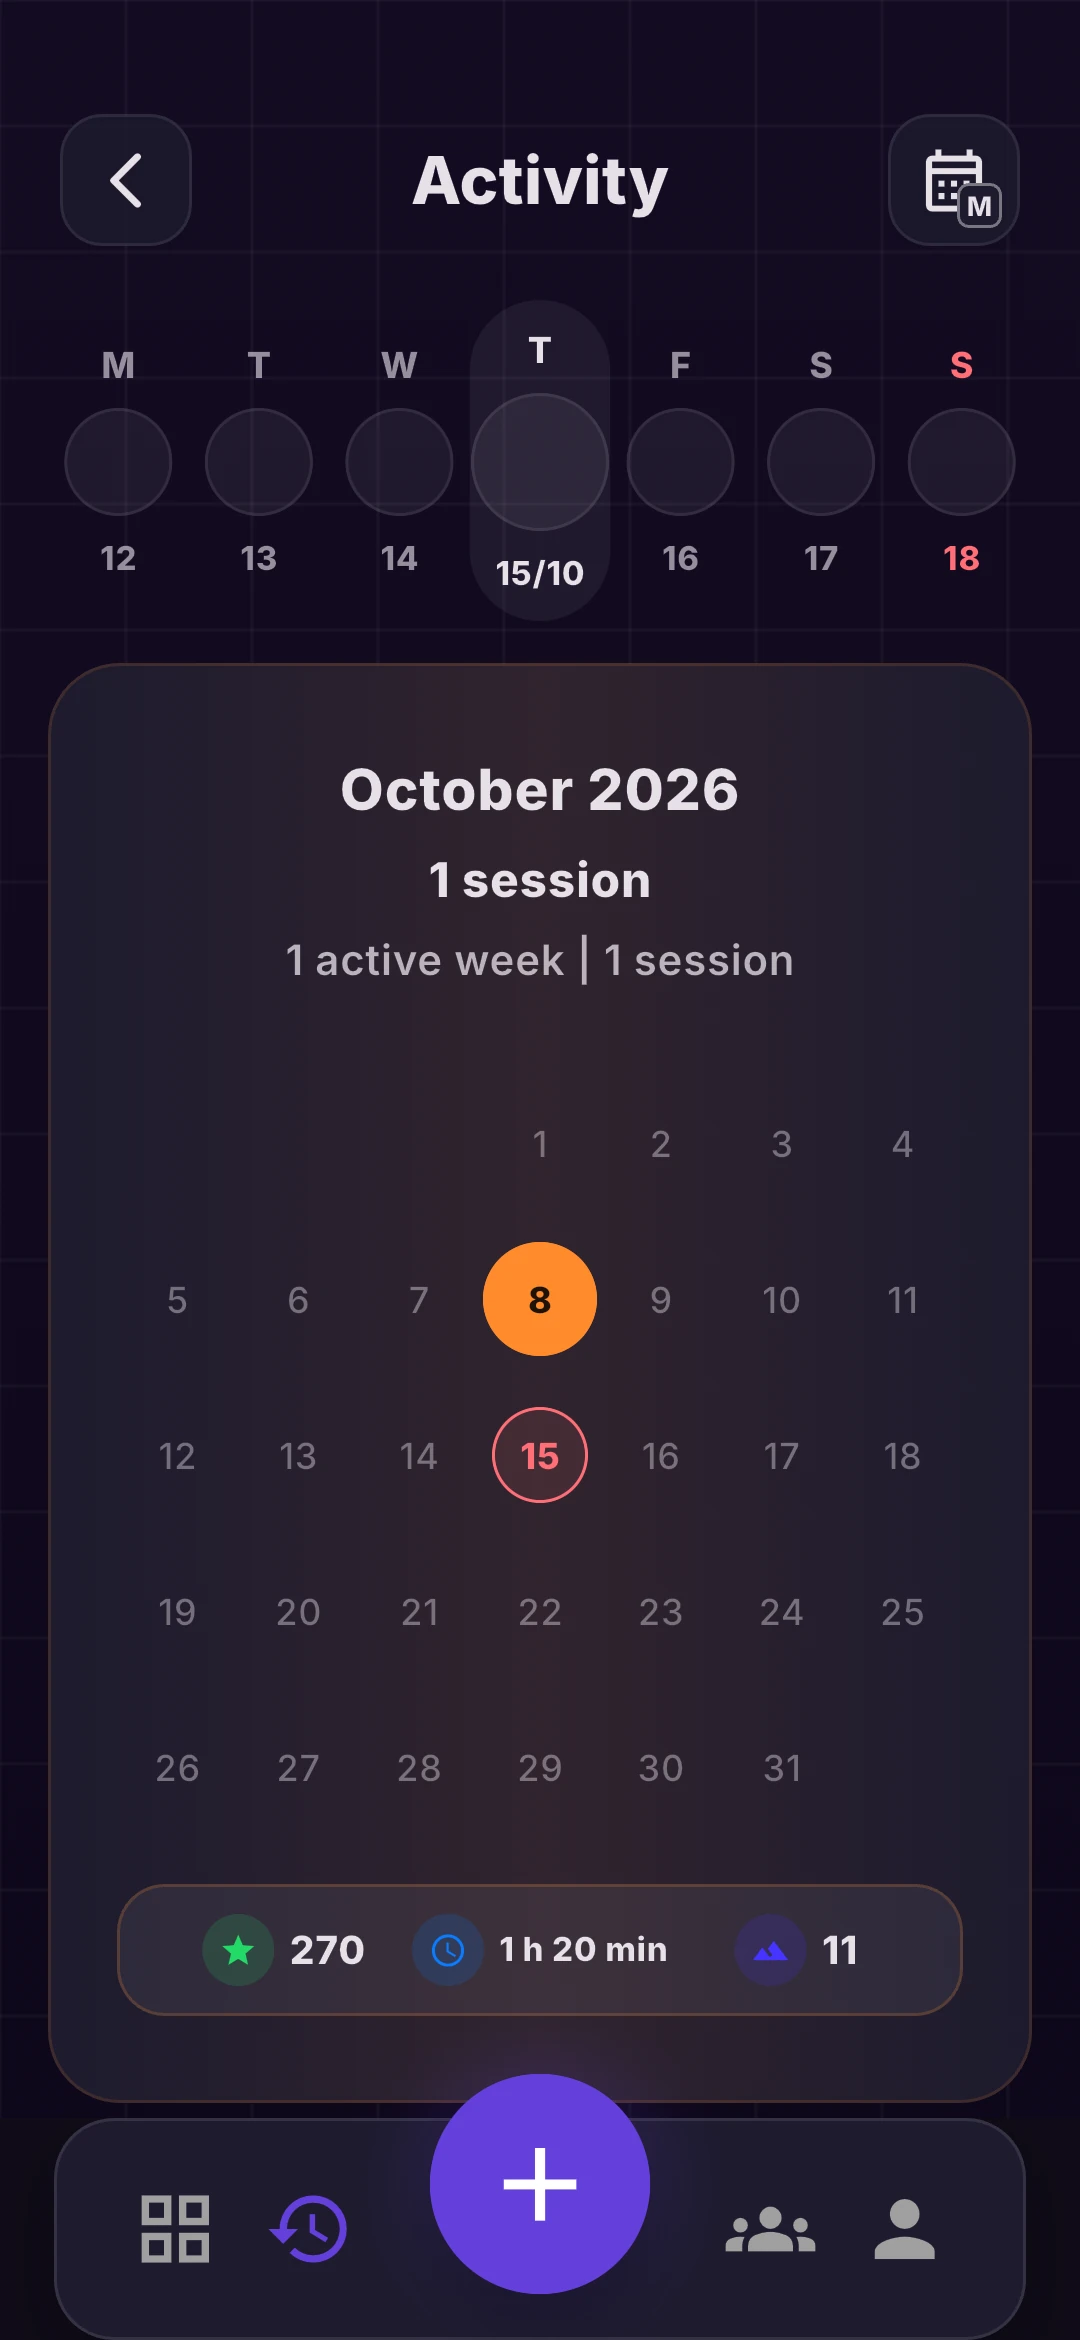
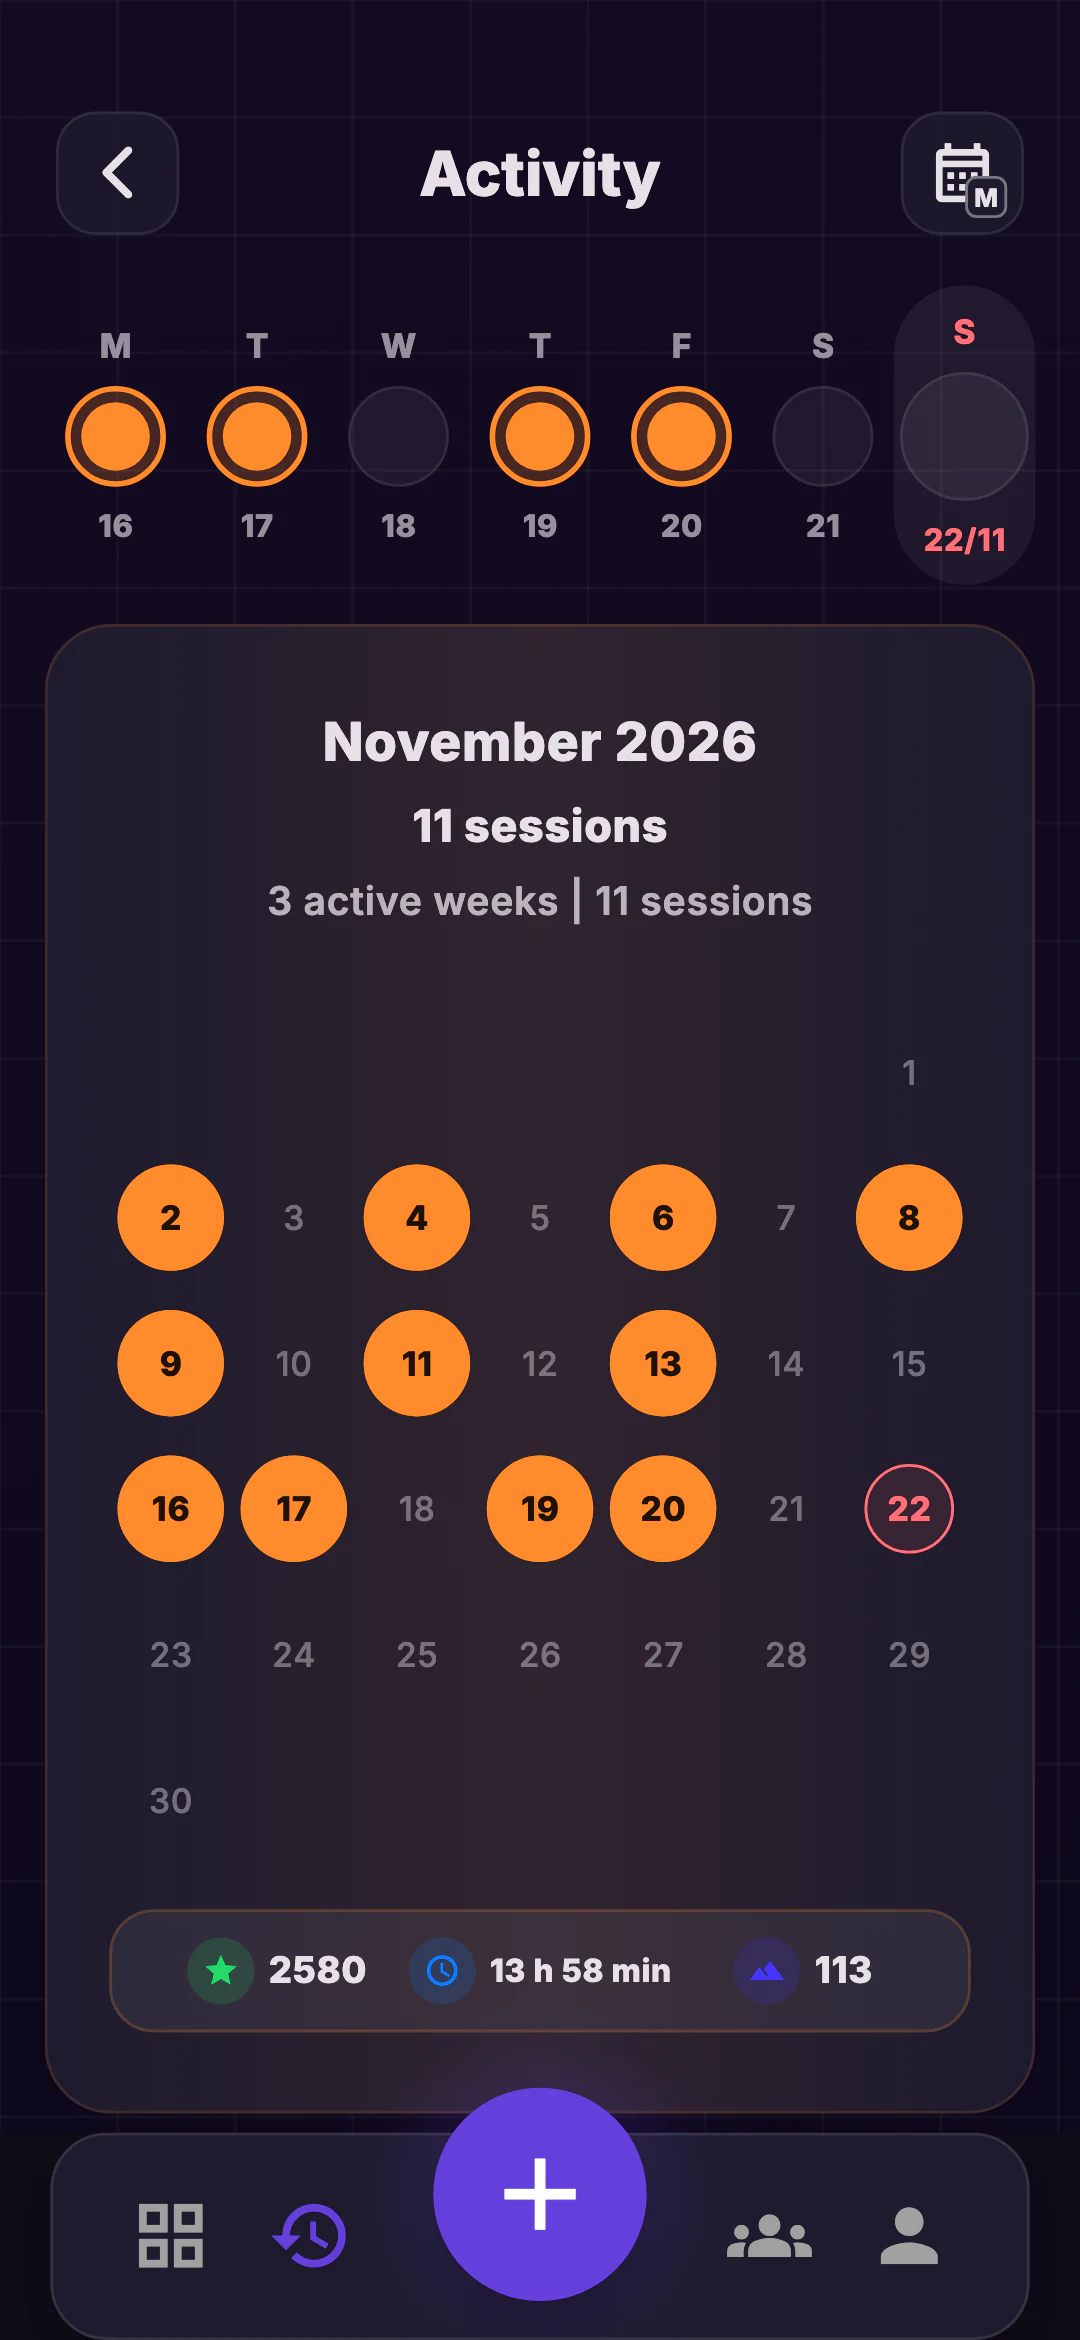
Update Pogo active session and monthly activity screenshots

diff --git a/src/data/products.ts b/src/data/products.ts
@@ -78,7 +78,7 @@ export const rhumbNav: Product = {
 const pogoScreenshots: ScreenshotGallery = [
   { light: '/images/pogo/screenshots/01-summary-light.webp', dark: '/images/pogo/screenshots/01-summary-dark.webp', alt: 'Summary' },
   { light: '/images/pogo/screenshots/02-history-light.webp', dark: '/images/pogo/screenshots/02-history-dark.webp', alt: 'Session history' },
-  { light: '/images/pogo/screenshots/03-activity-week-light.webp', dark: '/images/pogo/screenshots/03-activity-week-dark.webp', alt: 'Weekly activity' },
+  { light: '/images/pogo/screenshots/11-active-session-light.webp', dark: '/images/pogo/screenshots/11-active-session-dark.webp', alt: 'Active session' },
   { light: '/images/pogo/screenshots/04-activity-month-light.webp', dark: '/images/pogo/screenshots/04-activity-month-dark.webp', alt: 'Monthly activity' },
   { light: '/images/pogo/screenshots/05-gyms-light.webp', dark: '/images/pogo/screenshots/05-gyms-dark.webp', alt: 'Gyms' },
   { light: '/images/pogo/screenshots/06-gym-detail-light.webp', dark: '/images/pogo/screenshots/06-gym-detail-dark.webp', alt: 'Gym details' },
